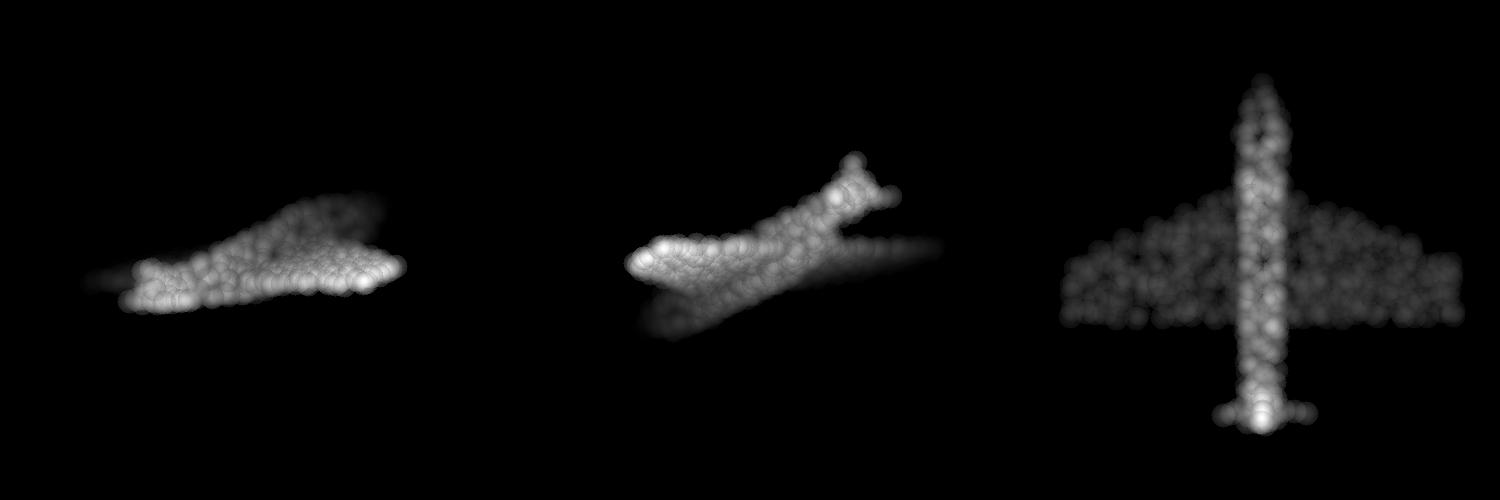
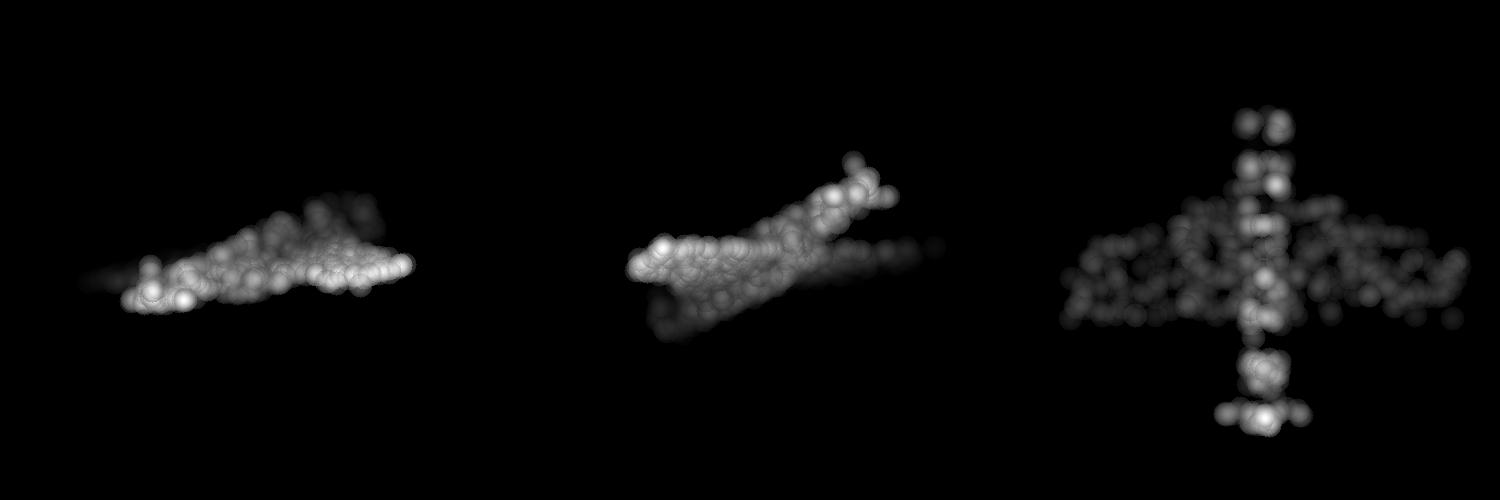
udpate stuf

diff --git a/test_partseg.py b/test_partseg.py
@@ -17,6 +17,7 @@ from visualizer.pc_utils import point_cloud_three_views
 from time import time
 BASE_DIR = os.path.dirname(os.path.abspath(__file__))
 ROOT_DIR = BASE_DIR
+SEGMENT_TO_16= True
 sys.path.append(os.path.join(ROOT_DIR, 'models'))
 
 seg_classes = {'Earphone': [16, 17, 18], 'Motorbike': [30, 31, 32, 33, 34, 35], 'Rocket': [41, 42, 43], 'Car': [8, 9, 10, 11], 'Laptop': [28, 29], 'Cap': [6, 7], 'Skateboard': [44, 45, 46], 'Mug': [36, 37], 'Guitar': [19, 20, 21], 'Bag': [4, 5], 'Lamp': [24, 25, 26, 27], 'Table': [47, 48, 49], 'Airplane': [0, 1, 2, 3], 'Pistol': [38, 39, 40], 'Chair': [12, 13, 14, 15], 'Knife': [22, 23]}
@@ -111,6 +112,13 @@ def main(args):
                 points = torch.load("./test_point_batch.pt", map_location=torch.device('cpu'))
                 label = torch.load("./test_label_batch.pt", map_location=torch.device('cpu'))
                 target = torch.load("./test_target_batch.pt", map_location=torch.device('cpu'))
+
+            if SEGMENT_TO_16:
+                points = points[:16, :, :]
+                # print(points.size())
+                label = label[:16]
+                # print(label.size())
+                target = target[:16, :]
             if PRESORT_FLAG:
                 points, target = pcloud_sort(points, target, sel_dim = 0)
             if VISUALIZE:

diff --git a/models/pointnet_util.py b/models/pointnet_util.py
@@ -14,7 +14,7 @@ SAVE_COMPUTATION_TWO_AXIS = False
 VISUALIZE = True
 
 '''Dimsort Setting'''
-TEST_DIMSORT = False
+TEST_DIMSORT = True
 DIMSORT_RANGE = 4
 
 '''Grid-GCN Setting'''

diff --git a/Roadmap.md b/Roadmap.md
@@ -35,15 +35,16 @@ python test_partseg.py --normal --log_dir pointnet2_part_seg_msg
 
 | Model | Accuracy(%) | Avg IoU | Latency (not rigorous) |
 |--|--|--|--|
-|**Vanilla**|0.91308 (0.00136)|0.82808 (0.00471)|12.61348 (0.23503)|
-|**Vanilla (save_comp)**|0.90486 (0.00147)|0.81706 (0.00353)|12.21645 (0.08228)|
-|**Vanilla (parallel)**|0.90486 (0.00147)|0.81706 (0.00353)|12.21645 (0.08228)|
+|**Seq-Vanilla**|0.91308 (0.00136)|0.82808 (0.00471)|12.61348 (0.23503)|
+|**Seq-Vanilla (save_comp)**|0.90486 (0.00147)|0.81706 (0.00353)|12.21645 (0.08228)|
+|Parallel-Vanilla (sorted)|0.91349 (0.00247)|0.82662 (0.00415)|12.0452 (0.10663)|
+|Parallel-Vanilla (no-sort)|0.90630 (0.00164)|0.81049 (0.00546)|12.25779 (0.08752)|
 |Parallel-DIMSORT-8|0.91120 (0.00269)|0.82119 (0.00367)| 12.41202 (0.13205)|
-|**Parallel-DIMSORT-8 (save_comp)**|0.91071 (0.00247) |0.82081 (0.00289)| 12.13942 (0.10859)|
+|Parallel-DIMSORT-8 (save_comp)|0.91071 (0.00247) |0.82081 (0.00289)| 12.13942 (0.10859)|
 |Parallel-DIMSORT-8 (no-sort)|0.90972 (0.00268)|0.81659 (0.00479)|12.51211 (0.10661)|
 |Parallel-DIMSORT-8 (no-sort, save_comp)|0.91101 (0.00225)|0.81700 (0.00641)|12.33169 (0.09527)|
 |Parallel-DIMSORT-4|0.91149 (0.00182)|0.82006 (0.00351)| 12.26777 (0.10436)|
-|Parallel-DIMSORT-4 (save_comp)|0.91126 (0.00296)|0.81992 (0.00345)| 12.10241 (0.07481)|
+|**Parallel-DIMSORT-4 (save_comp)**|0.91126 (0.00296)|0.81992 (0.00345)| 12.10241 (0.07481)|
 |Parallel-DIMSORT-4 (no-sort)|0.91179 (0.00281)|0.81678 (0.00576)|12.38499 (0.10152)|
 |Parallel-DIMSORT-4 (no-sort, save_comp)|0.91090 (0.00245)|0.81688 (0.00690)|12.15143 (0.06635)|
 |Parallel-DIMSORT-2|0.90950 (0.00103)|0.81316 (0.00607)| 11.95670 (0.08510)|
